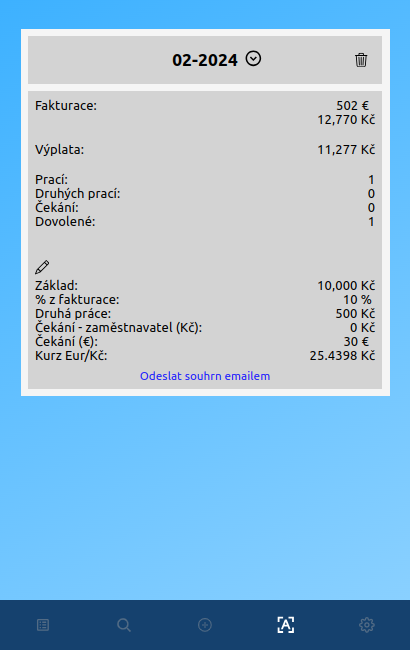
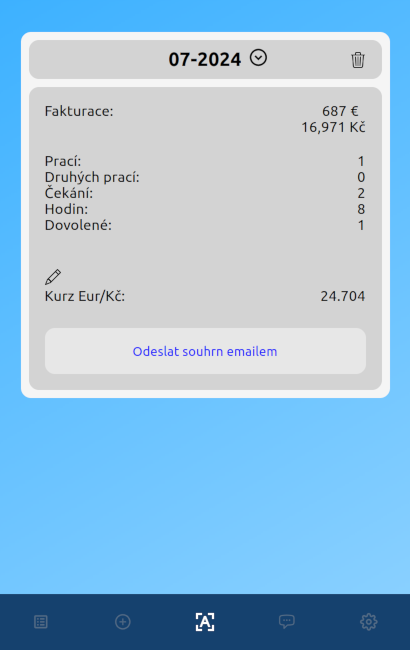
práce na screenshotech

diff --git a/src/components/ArchiveMonthJob.tsx b/src/components/ArchiveMonthJob.tsx
@@ -159,9 +159,13 @@ const ArchiveMonthJob = ({ oneJobData }: { oneJobData: JobType }) => {
 
       <div className="archive-month-job-body">
         <div>{city}</div>
-        <div>{zipcode}</div>
-        <div>{cmr}</div>
-        <div>{timeSpent + " h"}</div>
+        {!isHoliday && (
+          <>
+            <div>{zipcode}</div>
+            <div>{cmr}</div>
+            <div>{timeSpent + " h"}</div>
+          </>
+        )}
         {isSecondJob && (
           <PiNumberSquareTwoBold className="archive-month-job-second-job-icon" />
         )}

diff --git a/README.md b/README.md
@@ -114,13 +114,7 @@ Go to the Settings section and fill in (ideally) all fields.
 
 <br>
 
-Once you're done, you can add your first job by searching via **city name** or **post Code.**:
-
-![login after registration](src/images/emtruck.net_job_search.png)
-
-<br>
-
-If you can't find your job, you can add it manually by filling in all fields yourself:
+Once you're done, you can add your first job:
 
 ![login after registration](src/images/emtruck.net_add_custom_job.png)
 
